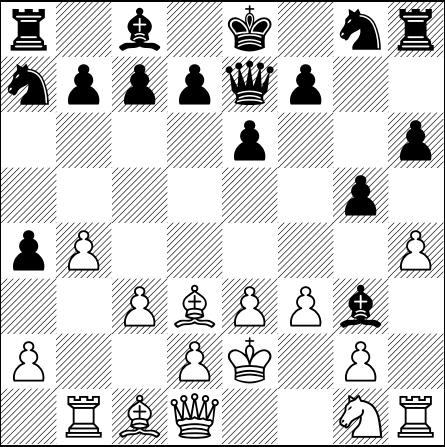
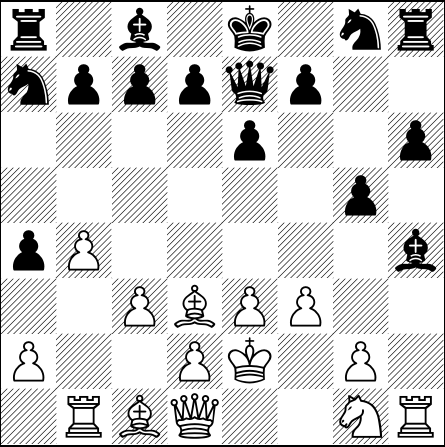
[automated] Regenerate text/pdf for chessboard

Changed region(s): [[0.8764, 0.4944, 0.9933, 0.6107], [0.7596, 0.6398, 0.8472, 0.7562]]

diff --git a/default_filepath.tex b/default_filepath.tex
@@ -13,6 +13,6 @@
 \normalsize%
 \setchessboard{showmover=false}%
 \newgame%
-\fenboard{r1b1k1nr/npppqp2/4p2p/6p1/pP5P/2PBPPb1/P2PK1P1/1RBQ2NR b kq - 2 11}%
+\fenboard{r1b1k1nr/npppqp2/4p2p/6p1/pP5b/2PBPP2/P2PK1P1/1RBQ2NR w kq - 0 12}%
 \chessboard%
 \end{document}
